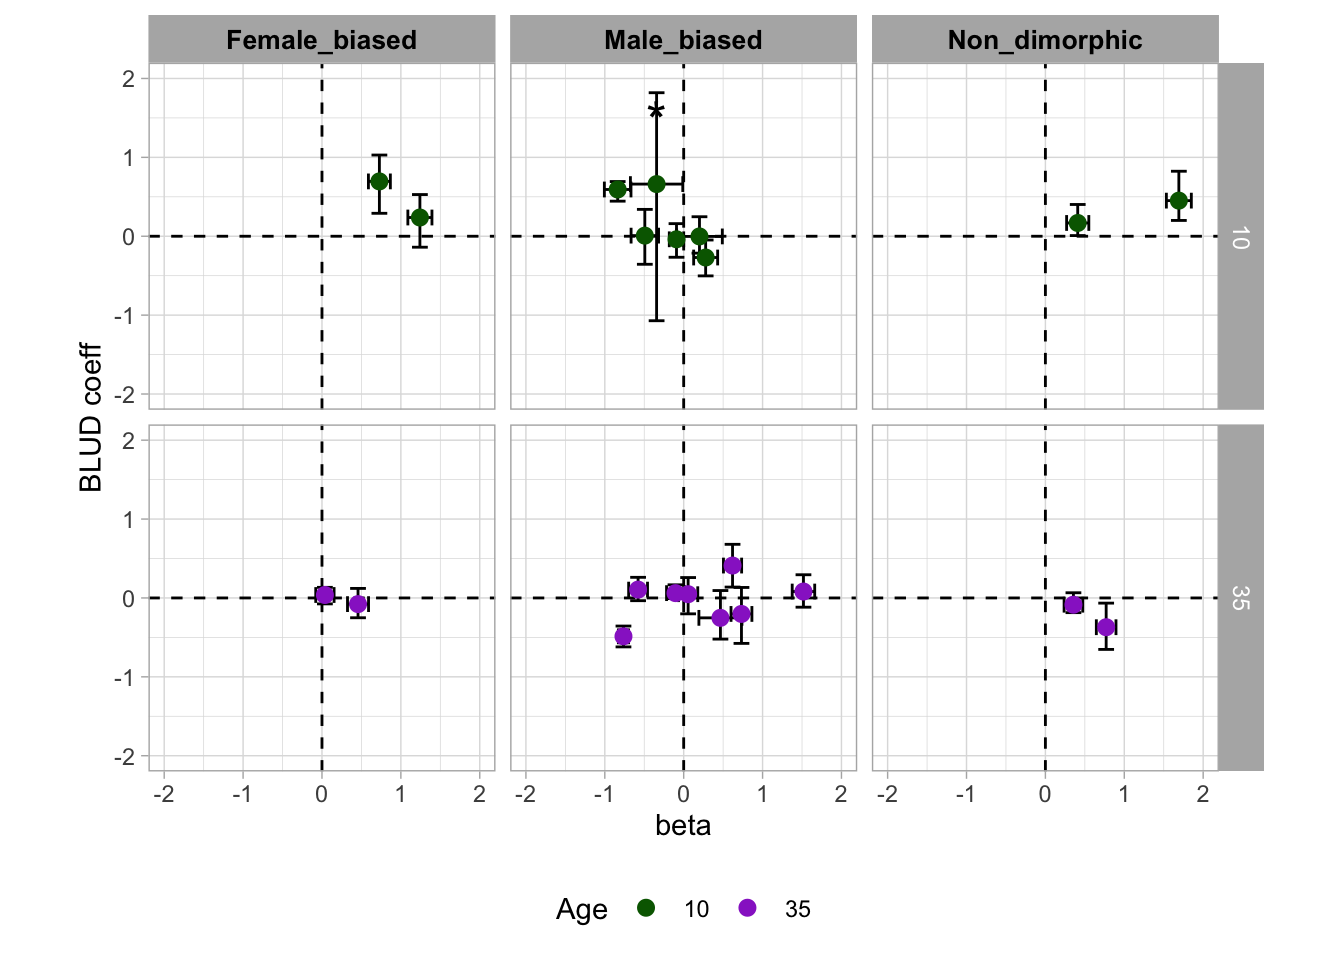
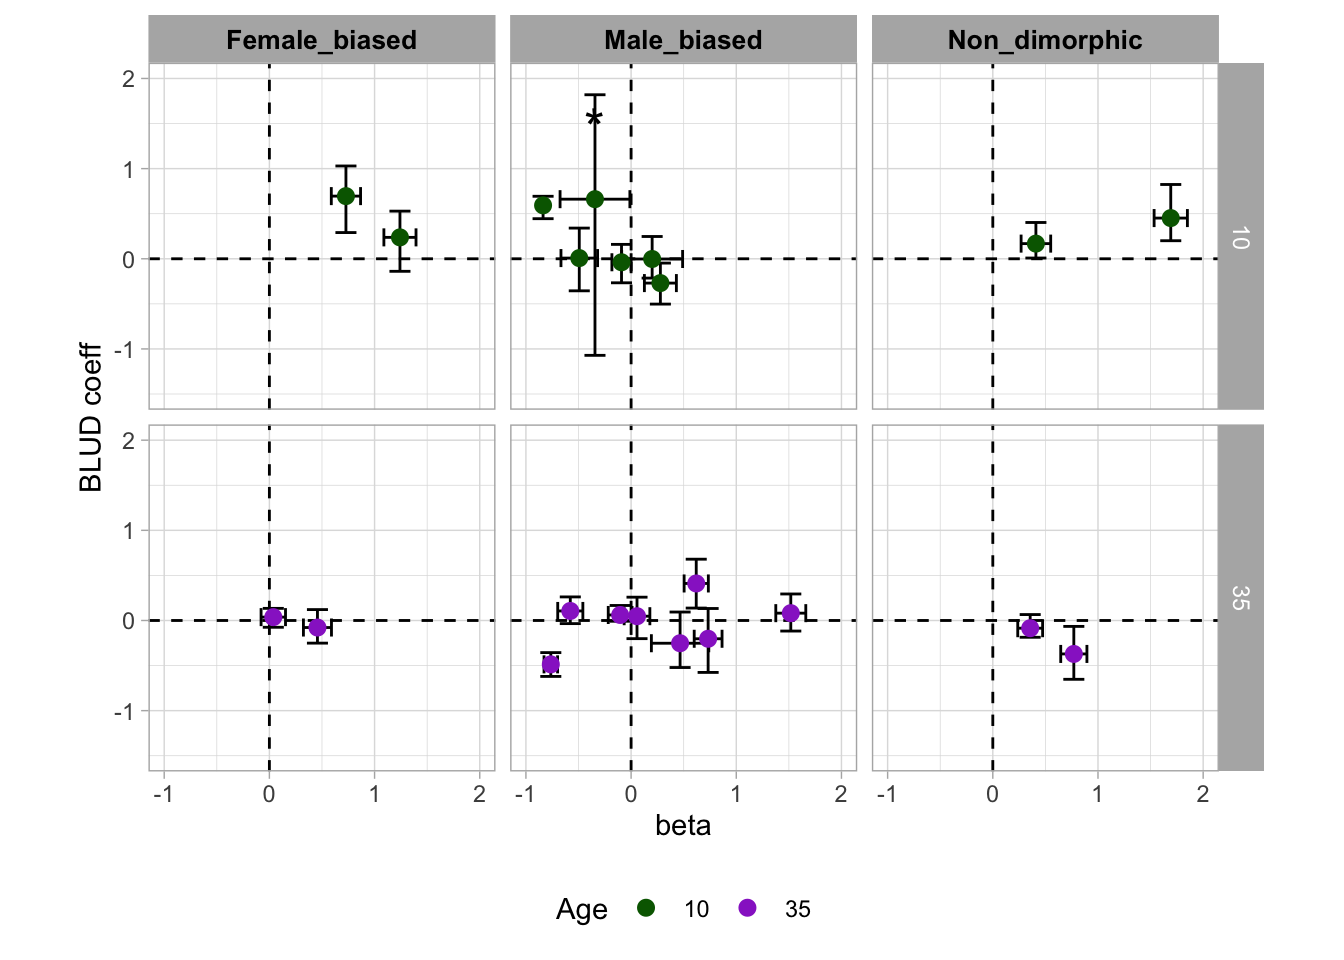
Build site.

diff --git a/docs/Coeffcients.html b/docs/Coeffcients.html
@@ -517,16 +517,16 @@ This reproducible <a href="http://rmarkdown.rstudio.com">R Markdown</a> analysis
 <div class="panel panel-default">
 <div class="panel-heading">
 <p class="panel-title">
-<a data-toggle="collapse" data-parent="#workflowr-checks" href="#strongRepositoryversionstrongahrefhttpsgithubcommcorbaldgrplifespanimmunitytreeccc7e33447cfac020bcf3e2fc5403c5509033197targetblankccc7e33a"> <span class="glyphicon glyphicon-ok text-success" aria-hidden="true"></span> <strong>Repository version:</strong> <a href="https://github.com/mcorbal/dgrp_lifespan_immunity/tree/ccc7e33447cfac020bcf3e2fc5403c5509033197" target="_blank">ccc7e33</a> </a>
+<a data-toggle="collapse" data-parent="#workflowr-checks" href="#strongRepositoryversionstrongahrefhttpsgithubcommcorbaldgrplifespanimmunitytreee5aa0a36980f4681ed75b16aba5bf160ca59efa6targetblanke5aa0a3a"> <span class="glyphicon glyphicon-ok text-success" aria-hidden="true"></span> <strong>Repository version:</strong> <a href="https://github.com/mcorbal/dgrp_lifespan_immunity/tree/e5aa0a36980f4681ed75b16aba5bf160ca59efa6" target="_blank">e5aa0a3</a> </a>
 </p>
 </div>
[2 lines of base64/hex data omitted]
 <div class="panel-body">
 <p>
 Great! You are using Git for version control. Tracking code development and connecting the code version to the results is critical for reproducibility.
 </p>
 <p>
-The results in this page were generated with repository version <a href="https://github.com/mcorbal/dgrp_lifespan_immunity/tree/ccc7e33447cfac020bcf3e2fc5403c5509033197" target="_blank">ccc7e33</a>. See the <em>Past versions</em> tab to see a history of the changes made to the R Markdown and HTML files.
+The results in this page were generated with repository version <a href="https://github.com/mcorbal/dgrp_lifespan_immunity/tree/e5aa0a36980f4681ed75b16aba5bf160ca59efa6" target="_blank">e5aa0a3</a>. See the <em>Past versions</em> tab to see a history of the changes made to the R Markdown and HTML files.
 </p>
 <p>
 Note that you need to be careful to ensure that all relevant files for the analysis have been committed to Git prior to generating the results (you can use <code>wflow_publish</code> or <code>wflow_git_commit</code>). workflowr only checks the R Markdown file, but you know if there are other scripts or data files that it depends on. Below is the status of the Git repository when the results were generated:
@@ -703,6 +703,40 @@ Message
 </tr>
 </thead>
 <tbody>
+<tr>
+<td>
+Rmd
+</td>
+<td>
+<a href="https://github.com/mcorbal/dgrp_lifespan_immunity/blob/e5aa0a36980f4681ed75b16aba5bf160ca59efa6/analysis/Coeffcients.Rmd" target="_blank">e5aa0a3</a>
+</td>
+<td>
+mcorbal
+</td>
+<td>
+2021-08-10
+</td>
+<td>
+final axes
+</td>
+</tr>
+<tr>
+<td>
+html
+</td>
+<td>
+<a href="https://rawcdn.githack.com/mcorbal/dgrp_lifespan_immunity/10f6f8c7379a0b8bfb1e5a82356fd3838d918c39/docs/Coeffcients.html" target="_blank">10f6f8c</a>
+</td>
+<td>
+mcorbal
+</td>
+<td>
+2021-08-10
+</td>
+<td>
+Build site.
+</td>
+</tr>
 <tr>
 <td>
 Rmd
@@ -1669,6 +1703,17 @@ Date
 <tbody>
 <tr>
 <td>
+<a href="https://github.com/mcorbal/dgrp_lifespan_immunity/blob/10f6f8c7379a0b8bfb1e5a82356fd3838d918c39/docs/figure/Coeffcients.Rmd/Cox analysis Age-1.png" target="_blank">10f6f8c</a>
+</td>
+<td>
+mcorbal
+</td>
+<td>
+2021-08-10
+</td>
+</tr>
+<tr>
+<td>
 <a href="https://github.com/mcorbal/dgrp_lifespan_immunity/blob/4a0a9aff34a4393289c5fb25c19b5f5780dac528/docs/figure/Coeffcients.Rmd/Cox analysis Age-1.png" target="_blank">4a0a9af</a>
 </td>
 <td>
@@ -1763,6 +1808,17 @@ Date
 </tr>
 </thead>
 <tbody>
+<tr>
+<td>
+<a href="https://github.com/mcorbal/dgrp_lifespan_immunity/blob/10f6f8c7379a0b8bfb1e5a82356fd3838d918c39/docs/figure/Coeffcients.Rmd/coxph analysis Age male_biased-1.png" target="_blank">10f6f8c</a>
+</td>
+<td>
+mcorbal
+</td>
+<td>
+2021-08-10
+</td>
+</tr>
 <tr>
 <td>
 <a href="https://github.com/mcorbal/dgrp_lifespan_immunity/blob/4a0a9aff34a4393289c5fb25c19b5f5780dac528/docs/figure/Coeffcients.Rmd/coxph analysis Age male_biased-1.png" target="_blank">4a0a9af</a>
@@ -1884,6 +1940,17 @@ Date
 </tr>
 </thead>
 <tbody>
+<tr>
+<td>
+<a href="https://github.com/mcorbal/dgrp_lifespan_immunity/blob/10f6f8c7379a0b8bfb1e5a82356fd3838d918c39/docs/figure/Coeffcients.Rmd/Age beta and coeffiecients for all lines ungrouped as replicates-1.png" target="_blank">10f6f8c</a>
+</td>
+<td>
+mcorbal
+</td>
+<td>
+2021-08-10
+</td>
+</tr>
 <tr>
 <td>
 <a href="https://github.com/mcorbal/dgrp_lifespan_immunity/blob/4a0a9aff34a4393289c5fb25c19b5f5780dac528/docs/figure/Coeffcients.Rmd/Age beta and coeffiecients for all lines ungrouped as replicates-1.png" target="_blank">4a0a9af</a>
